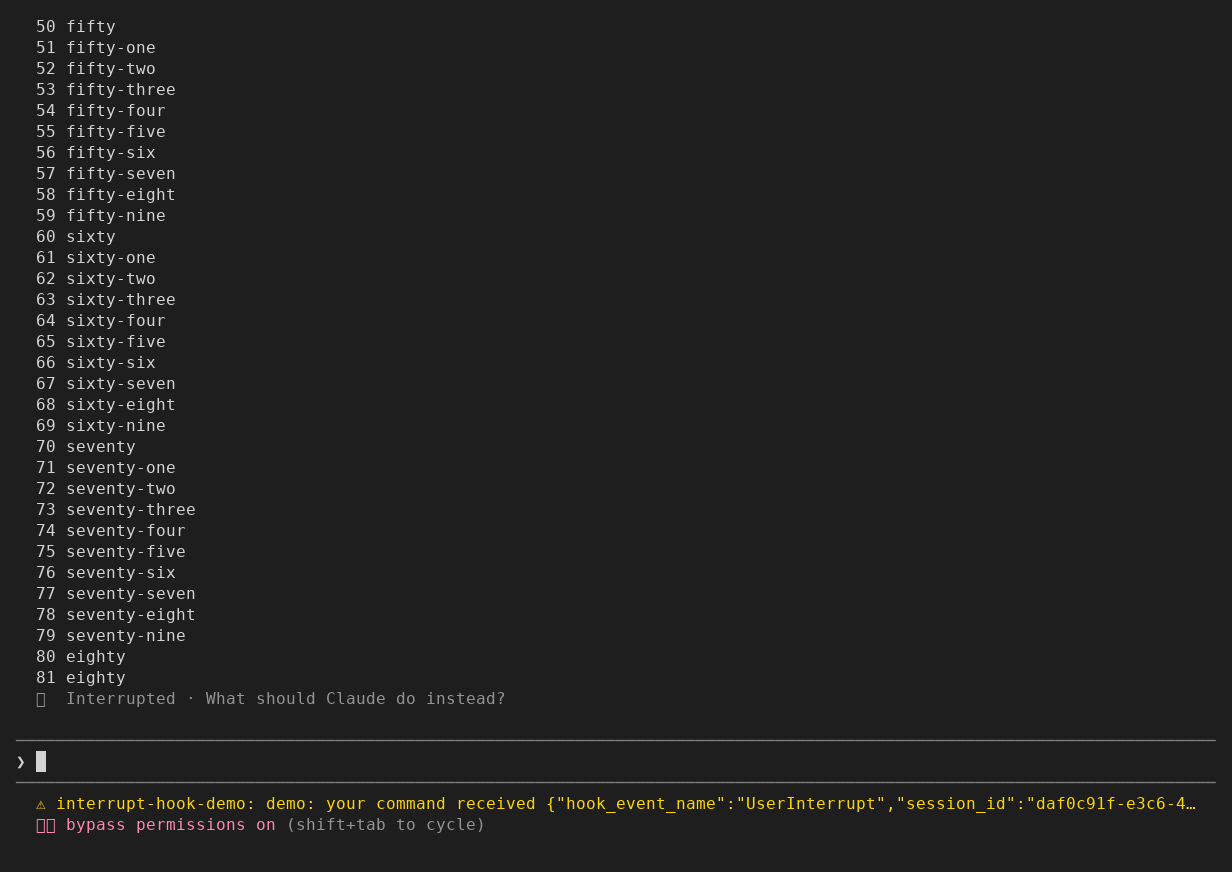
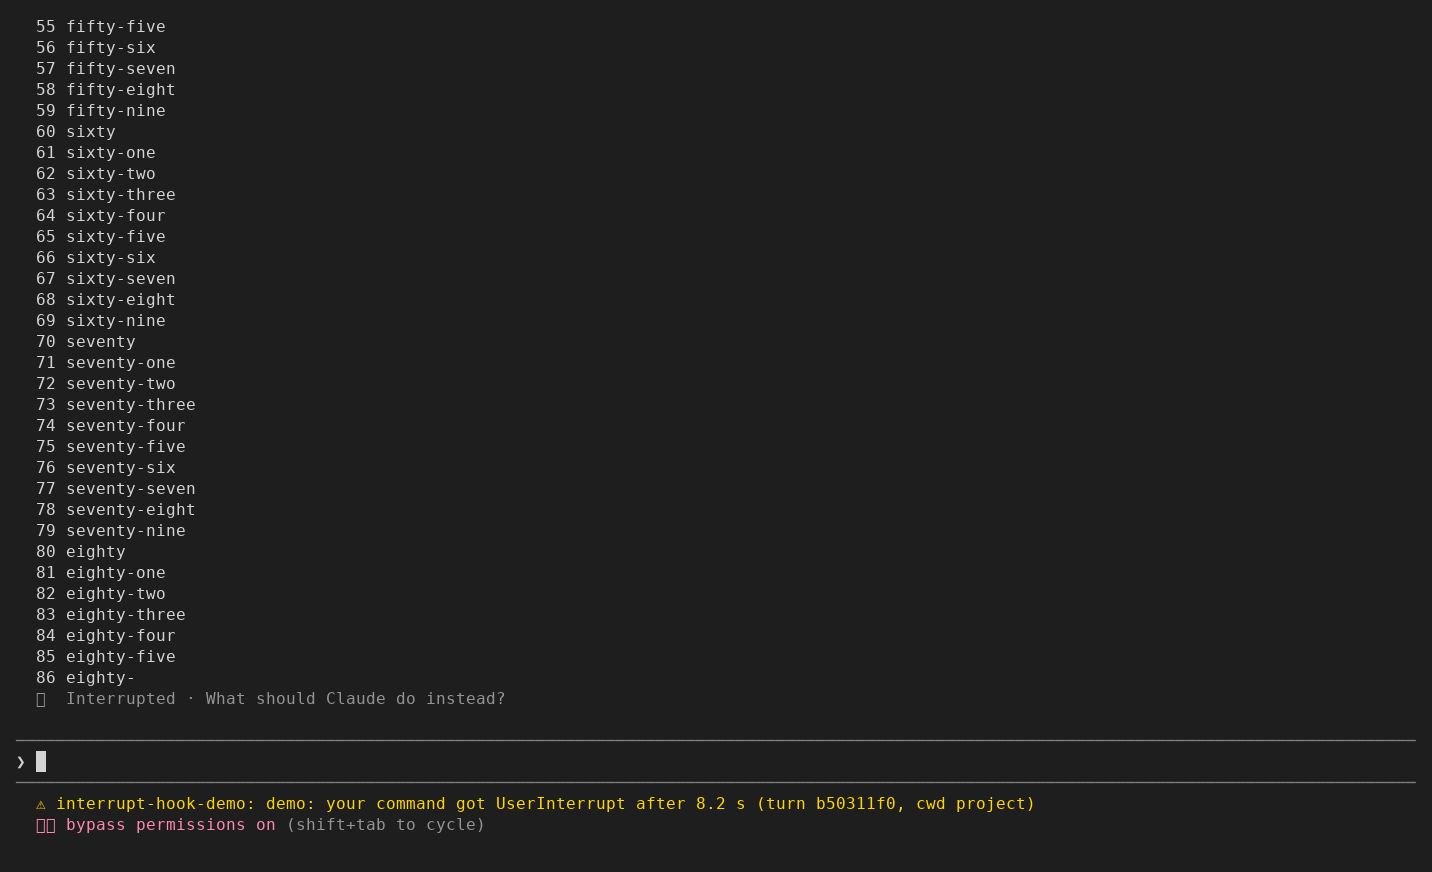
README: a wider preview picture whose status line is not cut off

Changed region(s): [[0.0308, 0.0, 0.401, 0.805], [0.0, 0.867, 0.9562, 0.9599]]

diff --git a/README.md b/README.md
@@ -12,10 +12,11 @@ turn you interrupted and runs your command once, with one JSON line on stdin,
 shaped like a hook's input. The mod itself sends nothing anywhere and writes
 no file: nothing leaves your machine unless your own command sends it.
 
-![After Escape stopped a reply, the status line shows the JSON line the command received](https://raw.githubusercontent.com/nightlab-agent/interrupt-hook/60ae377fc8a910f7ee8e115831e48e9ce8cb48e5/docs/preview.png)
+![After Escape stopped a reply, the status line shows what the command received](docs/preview.png)
 
-Above: Escape stopped Claude Code mid-reply; a demo command saved what it got on
-stdin and the status line shows it.
+Above: Escape stopped Claude Code mid-reply; a demo command saved the JSON line
+it got on stdin, and the status line shows its event name, duration, turn id and
+folder.
 
 ## Install
 

diff --git a/04-memory/STATE.md b/04-memory/STATE.md
@@ -5,5 +5,5 @@
   command with the JSON on stdin.
 - Open: Ctrl+C mid-turn not yet seen; the desktop app and editors not yet seen.
 - 2026-10-30: the shipped module seen working in a preview (Claude Code 2.1.312): Escape mid-reply, the command
-  got the UserInterrupt JSON line; picture docs/preview.png. Critic finds fixed before release: no cmd.exe second
+  got the UserInterrupt JSON line; picture docs/preview.png. Fixed before 0.1.0: no cmd.exe second
   run, the turn no longer waits for the command, CRLF stderr.
